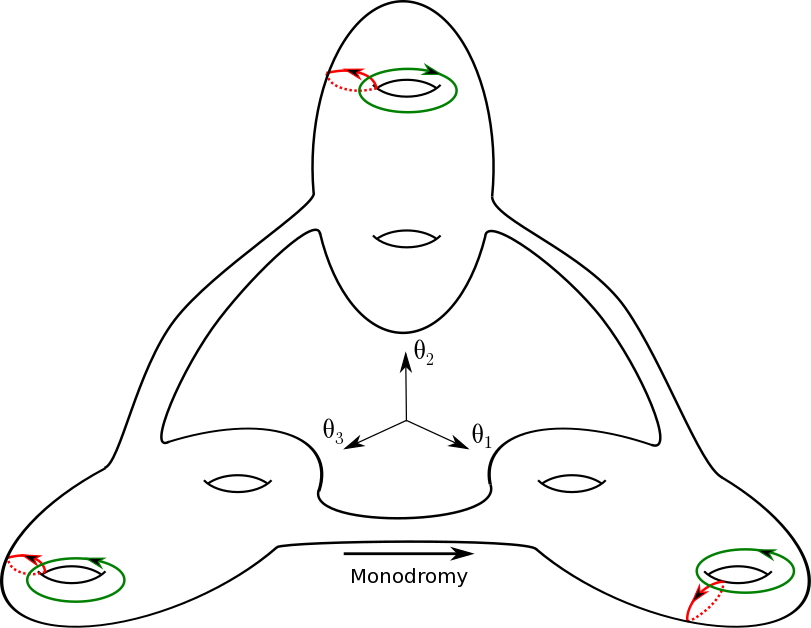
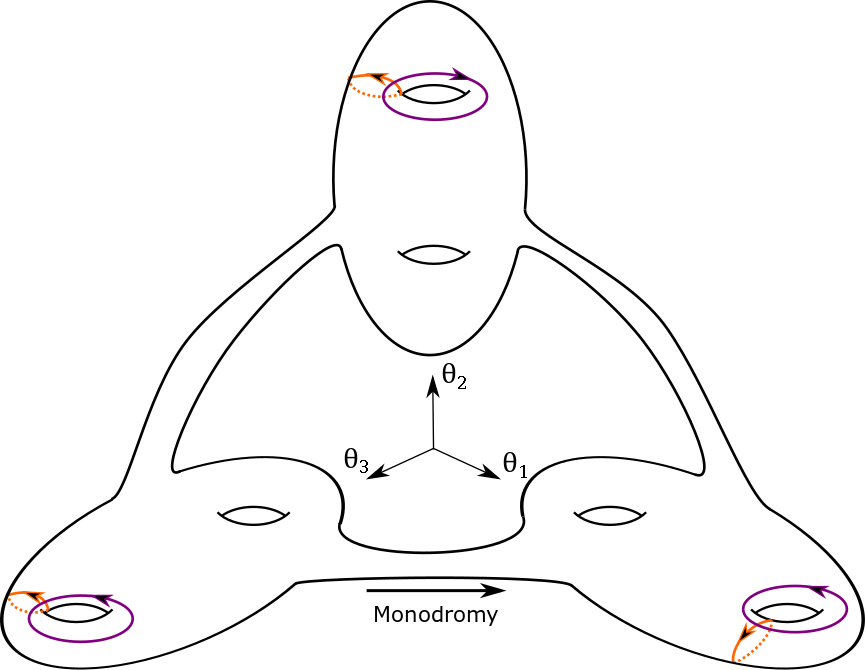
V4 comment 11

diff --git a/4dbundles.tex b/4dbundles.tex
@@ -526,8 +526,8 @@ For $\Sigma_2$, the orientation induced by $H_1$ is opposite the orientation ind
 \centering
 \includegraphics[height=3in]{sigmas.png}
 \caption{  The top copy of $\Sigma$ has been reflected about $\theta_2$.
-The red and green oriented curves in each copy of $\Sigma$ therefore are the same pair of curves slid along $I \times \Sigma$.
-Passing through the gluing monodromy, however, will send green and red curve to something else in general.}
+The orange and purple oriented curves in each copy of $\Sigma$ therefore are the same pair of curves slid along $I \times \Sigma$.
+Passing through the gluing monodromy, however, will send orange and purple curve to something else in general.}
 \label{embeddingsigmas}
 \end{figure}
 
